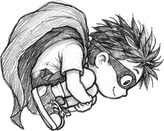
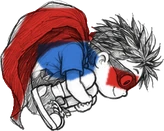
Shoe String Swing: coloured hero, skies and props (#53)
* Shoe String Swing: colour the hero, yellow stars, bluer pencil sky

Hero sprites tinted in place (red cape and mask, blue shirt) with a multiply
blend so Mark's graphite shading shows through. Stars switch from pencil grey
to yellow. The blue sky tile gets denser, more saturated strokes and a stronger
top tint. All other art stays graphite.

Claude-Session: https://claude.ai/code/session_01TW2c8UJkoBh3AZwnYZWCPG

* Shoe String Swing: green sidewalk bushes, orange bouncy ball

Claude-Session: https://claude.ai/code/session_01TW2c8UJkoBh3AZwnYZWCPG

* Shoe String Swing: Mark's coloured-pencil day and night skies

Two painted sky images (seam-blended to loop) replace the code-drawn sky
tile and the night graphite wash; the code versions stay as fallbacks until
the images load. Sun, moon and clouds still draw on top.

Claude-Session: https://claude.ai/code/session_01TW2c8UJkoBh3AZwnYZWCPG

* Shoe String Swing: Mark's prop sprites (bushes, basketball, stars, balloons)

Three sidewalk bushes, the basketball, two smiling-star faces and two red
balloons from Mark's coloured-pencil sheet replace the code-drawn versions,
which stay as fallbacks until the images load.

Claude-Session: https://claude.ai/code/session_01TW2c8UJkoBh3AZwnYZWCPG

* Shoe String Swing: Mark's sun, moon and clouds

Claude-Session: https://claude.ai/code/session_01TW2c8UJkoBh3AZwnYZWCPG

---------

diff --git a/site/play/shoe-string-swing.html b/site/play/shoe-string-swing.html
@@ -341,9 +341,9 @@ function step(dt){
   if(o.y<TOP+24){o.y=TOP+24;if(o.vy<0)o.vy*=-.3}
   // bouncy balls
   for(const b of balls){const by=SEA-b.r*.55;const dx=o.x-b.x,dy=o.y-by,d=Math.hypot(dx,dy);
-    if(d<b.r+22&&o.vy>0){o.vy=-Math.max(900,o.vy*.9);o.vx=Math.max(o.vx,260);b.squash=1;o.att=-1;sfx.boing();burst(b.x,by-b.r,ORANGE,8)}}
+    if(d<b.r+22&&o.vy>0){o.vy=-Math.max(900,o.vy*.9);o.vx=Math.max(o.vx,260);b.squash=1;o.att=-1;sfx.boing();burst(b.x,by-b.r,BALL,8)}}
   // smiling stars
-  for(const s of stars){if(!s.got&&Math.hypot(o.x-s.x,o.y-s.y)<40){s.got=true;starCount++;sfx.star();burst(s.x,s.y,YELLOW,10);hud()}}
+  for(const s of stars){if(!s.got&&Math.hypot(o.x-s.x,o.y-s.y)<40){s.got=true;starCount++;sfx.star();burst(s.x,s.y,STAR,10);hud()}}
   if(o.vx>40)o.face=1;else if(o.vx<-40)o.face=-1;
   if(o.x>maxX){maxX=o.x;const m=meters(maxX);if(m>=nextMile){const sc=nextMile%SCENE_M===0?sceneOf(nextMile/SCENE_M):null;showBanner(sc?'Welcome to '+sc.name+'!':nextMile+' m!',sc?nextMile+' m':'Keep swinging');sfx.mile();nextMile+=100}hud()}
   if(o.y>SEA-6){splash();return}
@@ -375,6 +375,7 @@ function showBanner(t,sub){const b=$('banner');b.innerHTML=t+(sub?'<small>'+sub+
 const OUT='#1f1f22';
 // graphite only, like the hero art: every 'colour' is a pencil grey
 const RED='#8c8c91',ORANGE='#6e6e73',YELLOW='#a6a6ab',GREEN='#58585d',BLUE='#4f4f55',PURPLE='#47474d',PINK='#77777c',TEAL='#606065',BROWN='#545459',SKIN='#d9d7d0';
+const STAR='#e9b820',BUSH='#4f9a3c',BALL='#ea7a1f'; // the few colours in the drawn art: yellow stars, green sidewalk bushes, the orange bouncy ball
 function hx(h){return[parseInt(h.slice(1,3),16),parseInt(h.slice(3,5),16),parseInt(h.slice(5,7),16)]}
 function mix(h,k){const a=hx(h),b=[246,243,234];return'rgb('+a.map((v,i)=>Math.round(b[i]+(v-b[i])*k)).join(',')+')'}
 function dark(h,k){return'rgb('+hx(h).map(v=>Math.round(v*(1-(k||.24)))).join(',')+')'}
@@ -560,6 +561,7 @@ function sceneMix(){ // which scene we're in and how far we've faded into the ne
 function drawSun(t,alpha){
   ctx.save();ctx.globalAlpha=alpha;
   const sx=W*.8,sy=H*.12,sr=Math.min(W,H)*.075;
+  if(prop(ctx,'sun',sx,sy,sr*3.4,Math.sin(t*.5)*.06)){ctx.restore();return}
   ctx.strokeStyle=ORANGE;ctx.lineWidth=2.5;ctx.lineCap='round';
   for(let i=0;i<12;i++){const a=i/12*6.283+t*.1;ctx.beginPath();ctx.moveTo(sx+Math.cos(a)*sr*1.3,sy+Math.sin(a)*sr*1.3);ctx.lineTo(sx+Math.cos(a)*sr*(1.65+.15*(i%2)),sy+Math.sin(a)*sr*(1.65+.15*(i%2)));ctx.stroke()}
   pfill(ctx,cc=>{for(let i=0;i<=40;i++){const a=i/40*6.283;const rr=sr*(1+.04*Math.sin(i*2.7));cc.lineTo(sx+Math.cos(a)*rr,sy+Math.sin(a)*rr)}cc.closePath()},YELLOW,[sx-sr*1.1,sy-sr*1.1,sr*2.2,sr*2.2],5,2.5,{a:.35,wash:.12});
@@ -568,6 +570,7 @@ function drawSun(t,alpha){
 }
 function drawNightSky(t,alpha){
   ctx.save();ctx.globalAlpha=alpha;
+  if(paintedSky('night')){ctx.restore();return}
   // a soft graphite wash over the paper with light hatching
   ctx.fillStyle='rgba(46,46,51,.13)';ctx.fillRect(0,0,W,H);
   ctx.strokeStyle='rgba(46,46,51,.08)';ctx.lineWidth=1;ctx.beginPath();for(let x=-H;x<W;x+=7){ctx.moveTo(x,H);ctx.lineTo(x+H,0)}ctx.stroke();
@@ -576,6 +579,7 @@ function drawNightSky(t,alpha){
 function drawClouds(alpha){
   ctx.save();ctx.globalAlpha=alpha;
   for(const c of clouds){let x=((c.x-camX*.2)%(260*7)+260*7)%(260*7)-150;x*=S*.9;const y=wy(c.y);const s=c.s*S*1.1;
+    if(prop(ctx,['cloud-a','cloud-b','cloud-c'][clouds.indexOf(c)%3],x,y,60*s,0))continue;
     ctx.fillStyle='#fbfaf5';ctx.strokeStyle=OUT;ctx.lineWidth=2;ctx.beginPath();ctx.ellipse(x,y,46*s,18*s,0,0,7);ctx.ellipse(x-26*s,y+4*s,26*s,14*s,0,0,7);ctx.ellipse(x+12*s,y-12*s,28*s,20*s,0,0,7);ctx.ellipse(x+34*s,y+3*s,24*s,13*s,0,0,7);ctx.stroke();ctx.fill();
     ctx.strokeStyle='rgba(79,79,85,.35)';ctx.lineWidth=1.2;ctx.beginPath();for(let k=0;k<5;k++){ctx.moveTo(x-30*s+k*12*s,y+14*s);ctx.lineTo(x-22*s+k*12*s,y+4*s)}ctx.stroke()}
   ctx.restore();
@@ -693,7 +697,8 @@ const SCENE_DRAW={
 function groundCity(t){
   const g=wy(SEA),p=camX*S;
   for(let i=Math.floor(camX/150)-1;i<Math.floor((camX+W/S)/150)+2;i++){if(hash(i,3)<.45)continue;const x=(i*150+hash(i,5)*80)*S-p,r=(14+hash(i,9)*8)*S;
-    pfill(ctx,cc=>{cc.arc(x-r*.8,g-r*.35,r*.75,Math.PI*.9,Math.PI*1.9);cc.arc(x,g-r*.7,r,Math.PI*1.1,Math.PI*1.95);cc.arc(x+r*.8,g-r*.35,r*.75,Math.PI*1.2,Math.PI*2.1);cc.lineTo(x+r*1.5,g);cc.lineTo(x-r*1.5,g);cc.closePath()},GREEN,[x-r*1.6,g-r*1.8,r*3.2,r*1.8],4,2)}
+    if(prop(ctx,['bush-a','bush-b','bush-c'][Math.floor(hash(i,11)*3)],x,g,r*2.1,0,0,.47))continue;
+    pfill(ctx,cc=>{cc.arc(x-r*.8,g-r*.35,r*.75,Math.PI*.9,Math.PI*1.9);cc.arc(x,g-r*.7,r,Math.PI*1.1,Math.PI*1.95);cc.arc(x+r*.8,g-r*.35,r*.75,Math.PI*1.2,Math.PI*2.1);cc.lineTo(x+r*1.5,g);cc.lineTo(x-r*1.5,g);cc.closePath()},BUSH,[x-r*1.6,g-r*1.8,r*3.2,r*1.8],4,2,{a:.7,wash:.4})}
   const sw=24*S;
   ctx.fillStyle='#ebe7dc';ctx.fillRect(0,g,W,sw);
   ctx.fillStyle='#dfdcd2';ctx.fillRect(0,g+sw,W,H-g-sw);
@@ -771,6 +776,7 @@ function drawMoon(t,n){ // a pale, softly glowing crescent moon with a few pale 
   const mx=W*.8,my=H*.13,mr=Math.min(W,H)*.075;
   const gl=ctx.createRadialGradient(mx,my,mr*.4,mx,my,mr*3.2);gl.addColorStop(0,'rgba(248,244,224,.32)');gl.addColorStop(1,'rgba(248,244,224,0)');
   ctx.fillStyle=gl;ctx.beginPath();ctx.arc(mx,my,mr*3.2,0,7);ctx.fill();
+  if(prop(ctx,'moon',mx,my,mr*2.6,0,-.05,0)){ctx.restore();return}
   const path=cc=>{cc.beginPath();cc.arc(mx,my,mr,Math.PI*.35,Math.PI*1.65,false);cc.arc(mx+mr*.55,my-mr*.1,mr*.85,Math.PI*1.55,Math.PI*.45,true);cc.closePath()};
   path(ctx);ctx.fillStyle='#f7f3e3';ctx.fill();
   ctx.save();path(ctx);ctx.clip();ctx.strokeStyle='rgba(150,150,140,.35)';ctx.lineWidth=1;ctx.beginPath();for(let s2=-mr*2;s2<mr*2;s2+=4){ctx.moveTo(mx-mr+s2,my+mr);ctx.lineTo(mx-mr+s2+mr*2,my-mr)}ctx.stroke();ctx.restore();
@@ -804,18 +810,18 @@ function buildSkyTile(w,h){
   const c=document.createElement('canvas'),d=Math.min(2,DPR);c.width=Math.ceil(w*d);c.height=Math.ceil(h*d);
   const x=c.getContext('2d');x.scale(d,d);x.lineCap='round';
   let seed=7;const rnd=()=>{seed=(seed*16807)%2147483647;return seed/2147483647};
-  const strokes=Math.round(w*h/26);
+  const strokes=Math.round(w*h/16);
   for(let i=0;i<strokes;i++){
     const v=Math.pow(rnd(),1.35),y=v*h;                    // more strokes near the top
     const dens=1-v*.9;                                    // and darker there
     const px=rnd()*w,len=7+rnd()*16,dir=rnd()<.78?-.95:-.35;  // mostly one slant, some cross-shading
     const ang=dir+(rnd()-.5)*.35,dx=Math.cos(ang)*len,dy=Math.sin(ang)*len;
-    const hue=rnd();x.strokeStyle=`rgba(${hue<.5?118:96},${hue<.5?163:148},${hue<.5?222:210},${(.05+rnd()*.13*dens+.04*dens).toFixed(3)})`;
+    const hue=rnd();x.strokeStyle=`rgba(${hue<.5?96:70},${hue<.5?150:132},${hue<.5?222:214},${(.08+rnd()*.2*dens+.07*dens).toFixed(3)})`;
     x.lineWidth=.8+rnd()*1.6;
     for(const o of[-w,0,w]){x.beginPath();x.moveTo(px+o,y);x.quadraticCurveTo(px+o+dx*.5+(rnd()-.5)*2,y+dy*.5,px+o+dx,y+dy);x.stroke()}
   }
   // soft overall tint, heavier at the top, gone by the skyline
-  const gr=x.createLinearGradient(0,0,0,h);gr.addColorStop(0,'rgba(150,190,232,.26)');gr.addColorStop(.7,'rgba(160,198,235,.08)');gr.addColorStop(1,'rgba(160,198,235,0)');
+  const gr=x.createLinearGradient(0,0,0,h);gr.addColorStop(0,'rgba(120,170,230,.42)');gr.addColorStop(.7,'rgba(140,186,235,.14)');gr.addColorStop(1,'rgba(160,198,235,0)');
   x.fillStyle=gr;x.fillRect(0,0,w,h);
   // paper tooth: tiny flecks where the pencil skipped
   x.globalCompositeOperation='destination-out';
@@ -823,7 +829,20 @@ function buildSkyTile(w,h){
   x.globalCompositeOperation='source-over';
   return c;
 }
+// Mark's coloured-pencil skies (day and night), looped left to right with slow parallax, sat on the ground line.
+const SKYIMG={};['day','night'].forEach(n=>{const im=new Image();im.onload=()=>{SKYIMG[n]=im;if(!running)draw(0)};im.src='/assets/shoe-string-swing/sky-'+n+'.webp'});
+// Mark's coloured-pencil props: sidewalk bushes, the basketball, smiling stars and red balloons.
+const PROP={};['bush-a','bush-b','bush-c','ball','star','star-wink','balloon','balloon-tilt','sun','moon','cloud-a','cloud-b','cloud-c'].forEach(n=>{const im=new Image();im.onload=()=>{PROP[n]=im;if(!running)draw(0)};im.src='/assets/shoe-string-swing/'+n+'.webp'});
+// draw a prop centred at (x,y) with the given height; ox/oy shift the anchor (fractions of width/height from the centre)
+function prop(c,n,x,y,h,rot,ox,oy){const im=PROP[n];if(!im)return false;const w=h*im.width/im.height;c.save();c.translate(x,y);if(rot)c.rotate(rot);c.drawImage(im,-w*(.5+(ox||0)),-h*(.5+(oy||0)),w,h);c.restore();return true}
+function paintedSky(n){
+  const im=SKYIMG[n];if(!im)return false;
+  const g=wy(SEA),h=g+2,w=Math.max(W,im.width*(h/im.height)),off=((camX*.05*S)%w+w)%w;
+  for(let x=-off;x<W;x+=w)ctx.drawImage(im,x,0,w+1,h);
+  return true;
+}
 function drawBlueSky(){
+  if(paintedSky('day'))return;
   const g=wy(SEA),h=Math.max(40,Math.ceil(g)),w=Math.ceil(W),key=w+'x'+h+'@'+DPR;
   if(skyKey!==key){skyTile=buildSkyTile(w,h);skyKey=key}
   const off=((camX*.05*S)%w+w)%w;
@@ -854,8 +873,9 @@ function drawGround(t){
   GROUND_DRAW[sceneOf(m.a).id](t);
   if(m.f>0)withLayer(m.f,()=>{GROUND_DRAW[sceneOf(m.b).id](t)});
 }
-function drawStar(c,x,y,r,rot,lw){
-  pfill(c,cc=>starPath(cc,x,y,r,rot),YELLOW,[x-r,y-r,r*2,r*2],Math.max(3,r*.25),lw||2.5,{a:.45,wash:.12});
+function drawStar(c,x,y,r,rot,lw,face){
+  if(c===ctx&&prop(c,face?'star-wink':'star',x,y,r*2.1,rot))return;
+  pfill(c,cc=>starPath(cc,x,y,r,rot),STAR,[x-r,y-r,r*2,r*2],Math.max(3,r*.25),lw||2.5,{a:.75,wash:.42});
   c.save();c.translate(x,y);c.rotate(rot);c.fillStyle=OUT;c.beginPath();c.arc(-r*.2,-r*.05,r*.09,0,7);c.arc(r*.2,-r*.05,r*.09,0,7);c.fill();
   c.strokeStyle=OUT;c.lineWidth=Math.max(1.4,r*.09);c.beginPath();c.arc(0,r*.08,r*.2,.3,Math.PI-.3);c.stroke();c.restore();
 }
@@ -876,6 +896,8 @@ function drawAnchor(a,isTarget,t){
     pfill(ctx,cc=>cc.arc(x,y,r*1.08,0,7),BLUE,[x-r*1.1,y-r*1.1,r*2.2,r*2.2],4.5,2.5,{a:.45,wash:.14});
     ctx.strokeStyle=OUT;ctx.lineWidth=1.6;ctx.beginPath();ctx.arc(x,y,r*.72,-2.5,-1.3);ctx.stroke();
     ctx.strokeStyle=PINK;ctx.lineWidth=2;ctx.beginPath();ctx.arc(x,y,r*.82,.3,1.1);ctx.stroke();
+  }else if(a.type==='bob'&&PROP[a.ph%2<1?'balloon':'balloon-tilt']){ // Mark's red balloon, string end at the grab point
+    prop(ctx,a.ph%2<1?'balloon':'balloon-tilt',x,y,r*3.2,0,a.ph%2<1?0:.1,.42);ctx.fillStyle=OUT;ctx.beginPath();ctx.arc(x,y,2.4,0,7);ctx.fill();
   }else if(a.type==='bob'){ // a pink balloon tied at the grab point, bobbing up and down
     const by=y-r*1.05;
     ctx.strokeStyle=OUT;ctx.lineWidth=1.4;ctx.beginPath();ctx.moveTo(x,by+r*.95);ctx.quadraticCurveTo(x+3,y-r*.2,x,y);ctx.stroke();
@@ -893,7 +915,8 @@ function drawBall(b,t){ // an orange bouncy ball resting on the sidewalk
   const y=wy(SEA)-r*.55+Math.sin(t*2+b.x)*3*S;
   ctx.save();ctx.translate(x,y);ctx.scale(1+b.squash*.25,1-b.squash*.25);
   ctx.fillStyle='rgba(46,46,51,.2)';ctx.beginPath();ctx.ellipse(0,r*.75,r*.9,r*.18,0,0,7);ctx.fill();
-  pfill(ctx,cc=>cc.arc(0,0,r,0,7),ORANGE,[-r,-r,r*2,r*2],4,2.8);
+  if(prop(ctx,'ball',0,0,r*2,Math.sin(t*2+b.x)*.1)){ctx.restore();return}
+  pfill(ctx,cc=>cc.arc(0,0,r,0,7),BALL,[-r,-r,r*2,r*2],4,2.8,{a:.75,wash:.45});
   ctx.strokeStyle=OUT;ctx.lineWidth=2;ctx.beginPath();ctx.moveTo(-r,0);ctx.quadraticCurveTo(0,r*.25,r,0);ctx.moveTo(0,-r);ctx.quadraticCurveTo(-r*.25,0,0,r);
   ctx.moveTo(-r*.7,-r*.7);ctx.quadraticCurveTo(-r*.25,-r*.1,-r*.7,r*.7);ctx.moveTo(r*.7,-r*.7);ctx.quadraticCurveTo(r*.25,-r*.1,r*.7,r*.7);ctx.stroke();
   ctx.restore();
@@ -928,7 +951,7 @@ function draw(t){
   drawBg(t);
   const tg=running&&o.att<0?target():-1;
   for(let i=0;i<anchors.length;i++)drawAnchor(anchors[i],i===tg,t);
-  for(const s of stars){if(s.got)continue;const x=wx(s.x);if(x<-30||x>W+30)continue;drawStar(ctx,x,wy(s.y)+Math.sin(t*3+s.ph)*4*S,15*S,Math.sin(t*2+s.ph)*.3)}
+  for(const s of stars){if(s.got)continue;const x=wx(s.x);if(x<-30||x>W+30)continue;drawStar(ctx,x,wy(s.y)+Math.sin(t*3+s.ph)*4*S,15*S,Math.sin(t*2+s.ph)*.3,2.5,s.ph%2<1)}
   drawGround(t);
   for(const b of balls)drawBall(b,t);
   drawNight(t);

diff --git a/src/games/shoe-string-swing.html b/src/games/shoe-string-swing.html
@@ -302,9 +302,9 @@ function step(dt){
   if(o.y<TOP+24){o.y=TOP+24;if(o.vy<0)o.vy*=-.3}
   // bouncy balls
   for(const b of balls){const by=SEA-b.r*.55;const dx=o.x-b.x,dy=o.y-by,d=Math.hypot(dx,dy);
-    if(d<b.r+22&&o.vy>0){o.vy=-Math.max(900,o.vy*.9);o.vx=Math.max(o.vx,260);b.squash=1;o.att=-1;sfx.boing();burst(b.x,by-b.r,ORANGE,8)}}
+    if(d<b.r+22&&o.vy>0){o.vy=-Math.max(900,o.vy*.9);o.vx=Math.max(o.vx,260);b.squash=1;o.att=-1;sfx.boing();burst(b.x,by-b.r,BALL,8)}}
   // smiling stars
-  for(const s of stars){if(!s.got&&Math.hypot(o.x-s.x,o.y-s.y)<40){s.got=true;starCount++;sfx.star();burst(s.x,s.y,YELLOW,10);hud()}}
+  for(const s of stars){if(!s.got&&Math.hypot(o.x-s.x,o.y-s.y)<40){s.got=true;starCount++;sfx.star();burst(s.x,s.y,STAR,10);hud()}}
   if(o.vx>40)o.face=1;else if(o.vx<-40)o.face=-1;
   if(o.x>maxX){maxX=o.x;const m=meters(maxX);if(m>=nextMile){const sc=nextMile%SCENE_M===0?sceneOf(nextMile/SCENE_M):null;showBanner(sc?'Welcome to '+sc.name+'!':nextMile+' m!',sc?nextMile+' m':'Keep swinging');sfx.mile();nextMile+=100}hud()}
   if(o.y>SEA-6){splash();return}
@@ -336,6 +336,7 @@ function showBanner(t,sub){const b=$('banner');b.innerHTML=t+(sub?'<small>'+sub+
 const OUT='#1f1f22';
 // graphite only, like the hero art: every 'colour' is a pencil grey
 const RED='#8c8c91',ORANGE='#6e6e73',YELLOW='#a6a6ab',GREEN='#58585d',BLUE='#4f4f55',PURPLE='#47474d',PINK='#77777c',TEAL='#606065',BROWN='#545459',SKIN='#d9d7d0';
+const STAR='#e9b820',BUSH='#4f9a3c',BALL='#ea7a1f'; // the few colours in the drawn art: yellow stars, green sidewalk bushes, the orange bouncy ball
 function hx(h){return[parseInt(h.slice(1,3),16),parseInt(h.slice(3,5),16),parseInt(h.slice(5,7),16)]}
 function mix(h,k){const a=hx(h),b=[246,243,234];return'rgb('+a.map((v,i)=>Math.round(b[i]+(v-b[i])*k)).join(',')+')'}
 function dark(h,k){return'rgb('+hx(h).map(v=>Math.round(v*(1-(k||.24)))).join(',')+')'}
@@ -521,6 +522,7 @@ function sceneMix(){ // which scene we're in and how far we've faded into the ne
 function drawSun(t,alpha){
   ctx.save();ctx.globalAlpha=alpha;
   const sx=W*.8,sy=H*.12,sr=Math.min(W,H)*.075;
+  if(prop(ctx,'sun',sx,sy,sr*3.4,Math.sin(t*.5)*.06)){ctx.restore();return}
   ctx.strokeStyle=ORANGE;ctx.lineWidth=2.5;ctx.lineCap='round';
   for(let i=0;i<12;i++){const a=i/12*6.283+t*.1;ctx.beginPath();ctx.moveTo(sx+Math.cos(a)*sr*1.3,sy+Math.sin(a)*sr*1.3);ctx.lineTo(sx+Math.cos(a)*sr*(1.65+.15*(i%2)),sy+Math.sin(a)*sr*(1.65+.15*(i%2)));ctx.stroke()}
   pfill(ctx,cc=>{for(let i=0;i<=40;i++){const a=i/40*6.283;const rr=sr*(1+.04*Math.sin(i*2.7));cc.lineTo(sx+Math.cos(a)*rr,sy+Math.sin(a)*rr)}cc.closePath()},YELLOW,[sx-sr*1.1,sy-sr*1.1,sr*2.2,sr*2.2],5,2.5,{a:.35,wash:.12});
@@ -529,6 +531,7 @@ function drawSun(t,alpha){
 }
 function drawNightSky(t,alpha){
   ctx.save();ctx.globalAlpha=alpha;
+  if(paintedSky('night')){ctx.restore();return}
   // a soft graphite wash over the paper with light hatching
   ctx.fillStyle='rgba(46,46,51,.13)';ctx.fillRect(0,0,W,H);
   ctx.strokeStyle='rgba(46,46,51,.08)';ctx.lineWidth=1;ctx.beginPath();for(let x=-H;x<W;x+=7){ctx.moveTo(x,H);ctx.lineTo(x+H,0)}ctx.stroke();
@@ -537,6 +540,7 @@ function drawNightSky(t,alpha){
 function drawClouds(alpha){
   ctx.save();ctx.globalAlpha=alpha;
   for(const c of clouds){let x=((c.x-camX*.2)%(260*7)+260*7)%(260*7)-150;x*=S*.9;const y=wy(c.y);const s=c.s*S*1.1;
+    if(prop(ctx,['cloud-a','cloud-b','cloud-c'][clouds.indexOf(c)%3],x,y,60*s,0))continue;
     ctx.fillStyle='#fbfaf5';ctx.strokeStyle=OUT;ctx.lineWidth=2;ctx.beginPath();ctx.ellipse(x,y,46*s,18*s,0,0,7);ctx.ellipse(x-26*s,y+4*s,26*s,14*s,0,0,7);ctx.ellipse(x+12*s,y-12*s,28*s,20*s,0,0,7);ctx.ellipse(x+34*s,y+3*s,24*s,13*s,0,0,7);ctx.stroke();ctx.fill();
     ctx.strokeStyle='rgba(79,79,85,.35)';ctx.lineWidth=1.2;ctx.beginPath();for(let k=0;k<5;k++){ctx.moveTo(x-30*s+k*12*s,y+14*s);ctx.lineTo(x-22*s+k*12*s,y+4*s)}ctx.stroke()}
   ctx.restore();
@@ -654,7 +658,8 @@ const SCENE_DRAW={
 function groundCity(t){
   const g=wy(SEA),p=camX*S;
   for(let i=Math.floor(camX/150)-1;i<Math.floor((camX+W/S)/150)+2;i++){if(hash(i,3)<.45)continue;const x=(i*150+hash(i,5)*80)*S-p,r=(14+hash(i,9)*8)*S;
-    pfill(ctx,cc=>{cc.arc(x-r*.8,g-r*.35,r*.75,Math.PI*.9,Math.PI*1.9);cc.arc(x,g-r*.7,r,Math.PI*1.1,Math.PI*1.95);cc.arc(x+r*.8,g-r*.35,r*.75,Math.PI*1.2,Math.PI*2.1);cc.lineTo(x+r*1.5,g);cc.lineTo(x-r*1.5,g);cc.closePath()},GREEN,[x-r*1.6,g-r*1.8,r*3.2,r*1.8],4,2)}
+    if(prop(ctx,['bush-a','bush-b','bush-c'][Math.floor(hash(i,11)*3)],x,g,r*2.1,0,0,.47))continue;
+    pfill(ctx,cc=>{cc.arc(x-r*.8,g-r*.35,r*.75,Math.PI*.9,Math.PI*1.9);cc.arc(x,g-r*.7,r,Math.PI*1.1,Math.PI*1.95);cc.arc(x+r*.8,g-r*.35,r*.75,Math.PI*1.2,Math.PI*2.1);cc.lineTo(x+r*1.5,g);cc.lineTo(x-r*1.5,g);cc.closePath()},BUSH,[x-r*1.6,g-r*1.8,r*3.2,r*1.8],4,2,{a:.7,wash:.4})}
   const sw=24*S;
   ctx.fillStyle='#ebe7dc';ctx.fillRect(0,g,W,sw);
   ctx.fillStyle='#dfdcd2';ctx.fillRect(0,g+sw,W,H-g-sw);
@@ -732,6 +737,7 @@ function drawMoon(t,n){ // a pale, softly glowing crescent moon with a few pale 
   const mx=W*.8,my=H*.13,mr=Math.min(W,H)*.075;
   const gl=ctx.createRadialGradient(mx,my,mr*.4,mx,my,mr*3.2);gl.addColorStop(0,'rgba(248,244,224,.32)');gl.addColorStop(1,'rgba(248,244,224,0)');
   ctx.fillStyle=gl;ctx.beginPath();ctx.arc(mx,my,mr*3.2,0,7);ctx.fill();
+  if(prop(ctx,'moon',mx,my,mr*2.6,0,-.05,0)){ctx.restore();return}
   const path=cc=>{cc.beginPath();cc.arc(mx,my,mr,Math.PI*.35,Math.PI*1.65,false);cc.arc(mx+mr*.55,my-mr*.1,mr*.85,Math.PI*1.55,Math.PI*.45,true);cc.closePath()};
   path(ctx);ctx.fillStyle='#f7f3e3';ctx.fill();
   ctx.save();path(ctx);ctx.clip();ctx.strokeStyle='rgba(150,150,140,.35)';ctx.lineWidth=1;ctx.beginPath();for(let s2=-mr*2;s2<mr*2;s2+=4){ctx.moveTo(mx-mr+s2,my+mr);ctx.lineTo(mx-mr+s2+mr*2,my-mr)}ctx.stroke();ctx.restore();
@@ -765,18 +771,18 @@ function buildSkyTile(w,h){
   const c=document.createElement('canvas'),d=Math.min(2,DPR);c.width=Math.ceil(w*d);c.height=Math.ceil(h*d);
   const x=c.getContext('2d');x.scale(d,d);x.lineCap='round';
   let seed=7;const rnd=()=>{seed=(seed*16807)%2147483647;return seed/2147483647};
-  const strokes=Math.round(w*h/26);
+  const strokes=Math.round(w*h/16);
   for(let i=0;i<strokes;i++){
     const v=Math.pow(rnd(),1.35),y=v*h;                    // more strokes near the top
     const dens=1-v*.9;                                    // and darker there
     const px=rnd()*w,len=7+rnd()*16,dir=rnd()<.78?-.95:-.35;  // mostly one slant, some cross-shading
     const ang=dir+(rnd()-.5)*.35,dx=Math.cos(ang)*len,dy=Math.sin(ang)*len;
-    const hue=rnd();x.strokeStyle=`rgba(${hue<.5?118:96},${hue<.5?163:148},${hue<.5?222:210},${(.05+rnd()*.13*dens+.04*dens).toFixed(3)})`;
+    const hue=rnd();x.strokeStyle=`rgba(${hue<.5?96:70},${hue<.5?150:132},${hue<.5?222:214},${(.08+rnd()*.2*dens+.07*dens).toFixed(3)})`;
     x.lineWidth=.8+rnd()*1.6;
     for(const o of[-w,0,w]){x.beginPath();x.moveTo(px+o,y);x.quadraticCurveTo(px+o+dx*.5+(rnd()-.5)*2,y+dy*.5,px+o+dx,y+dy);x.stroke()}
   }
   // soft overall tint, heavier at the top, gone by the skyline
-  const gr=x.createLinearGradient(0,0,0,h);gr.addColorStop(0,'rgba(150,190,232,.26)');gr.addColorStop(.7,'rgba(160,198,235,.08)');gr.addColorStop(1,'rgba(160,198,235,0)');
+  const gr=x.createLinearGradient(0,0,0,h);gr.addColorStop(0,'rgba(120,170,230,.42)');gr.addColorStop(.7,'rgba(140,186,235,.14)');gr.addColorStop(1,'rgba(160,198,235,0)');
   x.fillStyle=gr;x.fillRect(0,0,w,h);
   // paper tooth: tiny flecks where the pencil skipped
   x.globalCompositeOperation='destination-out';
@@ -784,7 +790,20 @@ function buildSkyTile(w,h){
   x.globalCompositeOperation='source-over';
   return c;
 }
+// Mark's coloured-pencil skies (day and night), looped left to right with slow parallax, sat on the ground line.
+const SKYIMG={};['day','night'].forEach(n=>{const im=new Image();im.onload=()=>{SKYIMG[n]=im;if(!running)draw(0)};im.src='/assets/shoe-string-swing/sky-'+n+'.webp'});
+// Mark's coloured-pencil props: sidewalk bushes, the basketball, smiling stars and red balloons.
+const PROP={};['bush-a','bush-b','bush-c','ball','star','star-wink','balloon','balloon-tilt','sun','moon','cloud-a','cloud-b','cloud-c'].forEach(n=>{const im=new Image();im.onload=()=>{PROP[n]=im;if(!running)draw(0)};im.src='/assets/shoe-string-swing/'+n+'.webp'});
+// draw a prop centred at (x,y) with the given height; ox/oy shift the anchor (fractions of width/height from the centre)
+function prop(c,n,x,y,h,rot,ox,oy){const im=PROP[n];if(!im)return false;const w=h*im.width/im.height;c.save();c.translate(x,y);if(rot)c.rotate(rot);c.drawImage(im,-w*(.5+(ox||0)),-h*(.5+(oy||0)),w,h);c.restore();return true}
+function paintedSky(n){
+  const im=SKYIMG[n];if(!im)return false;
+  const g=wy(SEA),h=g+2,w=Math.max(W,im.width*(h/im.height)),off=((camX*.05*S)%w+w)%w;
+  for(let x=-off;x<W;x+=w)ctx.drawImage(im,x,0,w+1,h);
+  return true;
+}
 function drawBlueSky(){
+  if(paintedSky('day'))return;
   const g=wy(SEA),h=Math.max(40,Math.ceil(g)),w=Math.ceil(W),key=w+'x'+h+'@'+DPR;
   if(skyKey!==key){skyTile=buildSkyTile(w,h);skyKey=key}
   const off=((camX*.05*S)%w+w)%w;
@@ -815,8 +834,9 @@ function drawGround(t){
   GROUND_DRAW[sceneOf(m.a).id](t);
   if(m.f>0)withLayer(m.f,()=>{GROUND_DRAW[sceneOf(m.b).id](t)});
 }
-function drawStar(c,x,y,r,rot,lw){
-  pfill(c,cc=>starPath(cc,x,y,r,rot),YELLOW,[x-r,y-r,r*2,r*2],Math.max(3,r*.25),lw||2.5,{a:.45,wash:.12});
+function drawStar(c,x,y,r,rot,lw,face){
+  if(c===ctx&&prop(c,face?'star-wink':'star',x,y,r*2.1,rot))return;
+  pfill(c,cc=>starPath(cc,x,y,r,rot),STAR,[x-r,y-r,r*2,r*2],Math.max(3,r*.25),lw||2.5,{a:.75,wash:.42});
   c.save();c.translate(x,y);c.rotate(rot);c.fillStyle=OUT;c.beginPath();c.arc(-r*.2,-r*.05,r*.09,0,7);c.arc(r*.2,-r*.05,r*.09,0,7);c.fill();
   c.strokeStyle=OUT;c.lineWidth=Math.max(1.4,r*.09);c.beginPath();c.arc(0,r*.08,r*.2,.3,Math.PI-.3);c.stroke();c.restore();
 }
@@ -837,6 +857,8 @@ function drawAnchor(a,isTarget,t){
     pfill(ctx,cc=>cc.arc(x,y,r*1.08,0,7),BLUE,[x-r*1.1,y-r*1.1,r*2.2,r*2.2],4.5,2.5,{a:.45,wash:.14});
     ctx.strokeStyle=OUT;ctx.lineWidth=1.6;ctx.beginPath();ctx.arc(x,y,r*.72,-2.5,-1.3);ctx.stroke();
     ctx.strokeStyle=PINK;ctx.lineWidth=2;ctx.beginPath();ctx.arc(x,y,r*.82,.3,1.1);ctx.stroke();
+  }else if(a.type==='bob'&&PROP[a.ph%2<1?'balloon':'balloon-tilt']){ // Mark's red balloon, string end at the grab point
+    prop(ctx,a.ph%2<1?'balloon':'balloon-tilt',x,y,r*3.2,0,a.ph%2<1?0:.1,.42);ctx.fillStyle=OUT;ctx.beginPath();ctx.arc(x,y,2.4,0,7);ctx.fill();
   }else if(a.type==='bob'){ // a pink balloon tied at the grab point, bobbing up and down
     const by=y-r*1.05;
     ctx.strokeStyle=OUT;ctx.lineWidth=1.4;ctx.beginPath();ctx.moveTo(x,by+r*.95);ctx.quadraticCurveTo(x+3,y-r*.2,x,y);ctx.stroke();
@@ -854,7 +876,8 @@ function drawBall(b,t){ // an orange bouncy ball resting on the sidewalk
   const y=wy(SEA)-r*.55+Math.sin(t*2+b.x)*3*S;
   ctx.save();ctx.translate(x,y);ctx.scale(1+b.squash*.25,1-b.squash*.25);
   ctx.fillStyle='rgba(46,46,51,.2)';ctx.beginPath();ctx.ellipse(0,r*.75,r*.9,r*.18,0,0,7);ctx.fill();
-  pfill(ctx,cc=>cc.arc(0,0,r,0,7),ORANGE,[-r,-r,r*2,r*2],4,2.8);
+  if(prop(ctx,'ball',0,0,r*2,Math.sin(t*2+b.x)*.1)){ctx.restore();return}
+  pfill(ctx,cc=>cc.arc(0,0,r,0,7),BALL,[-r,-r,r*2,r*2],4,2.8,{a:.75,wash:.45});
   ctx.strokeStyle=OUT;ctx.lineWidth=2;ctx.beginPath();ctx.moveTo(-r,0);ctx.quadraticCurveTo(0,r*.25,r,0);ctx.moveTo(0,-r);ctx.quadraticCurveTo(-r*.25,0,0,r);
   ctx.moveTo(-r*.7,-r*.7);ctx.quadraticCurveTo(-r*.25,-r*.1,-r*.7,r*.7);ctx.moveTo(r*.7,-r*.7);ctx.quadraticCurveTo(r*.25,-r*.1,r*.7,r*.7);ctx.stroke();
   ctx.restore();
@@ -889,7 +912,7 @@ function draw(t){
   drawBg(t);
   const tg=running&&o.att<0?target():-1;
   for(let i=0;i<anchors.length;i++)drawAnchor(anchors[i],i===tg,t);
-  for(const s of stars){if(s.got)continue;const x=wx(s.x);if(x<-30||x>W+30)continue;drawStar(ctx,x,wy(s.y)+Math.sin(t*3+s.ph)*4*S,15*S,Math.sin(t*2+s.ph)*.3)}
+  for(const s of stars){if(s.got)continue;const x=wx(s.x);if(x<-30||x>W+30)continue;drawStar(ctx,x,wy(s.y)+Math.sin(t*3+s.ph)*4*S,15*S,Math.sin(t*2+s.ph)*.3,2.5,s.ph%2<1)}
   drawGround(t);
   for(const b of balls)drawBall(b,t);
   drawNight(t);
